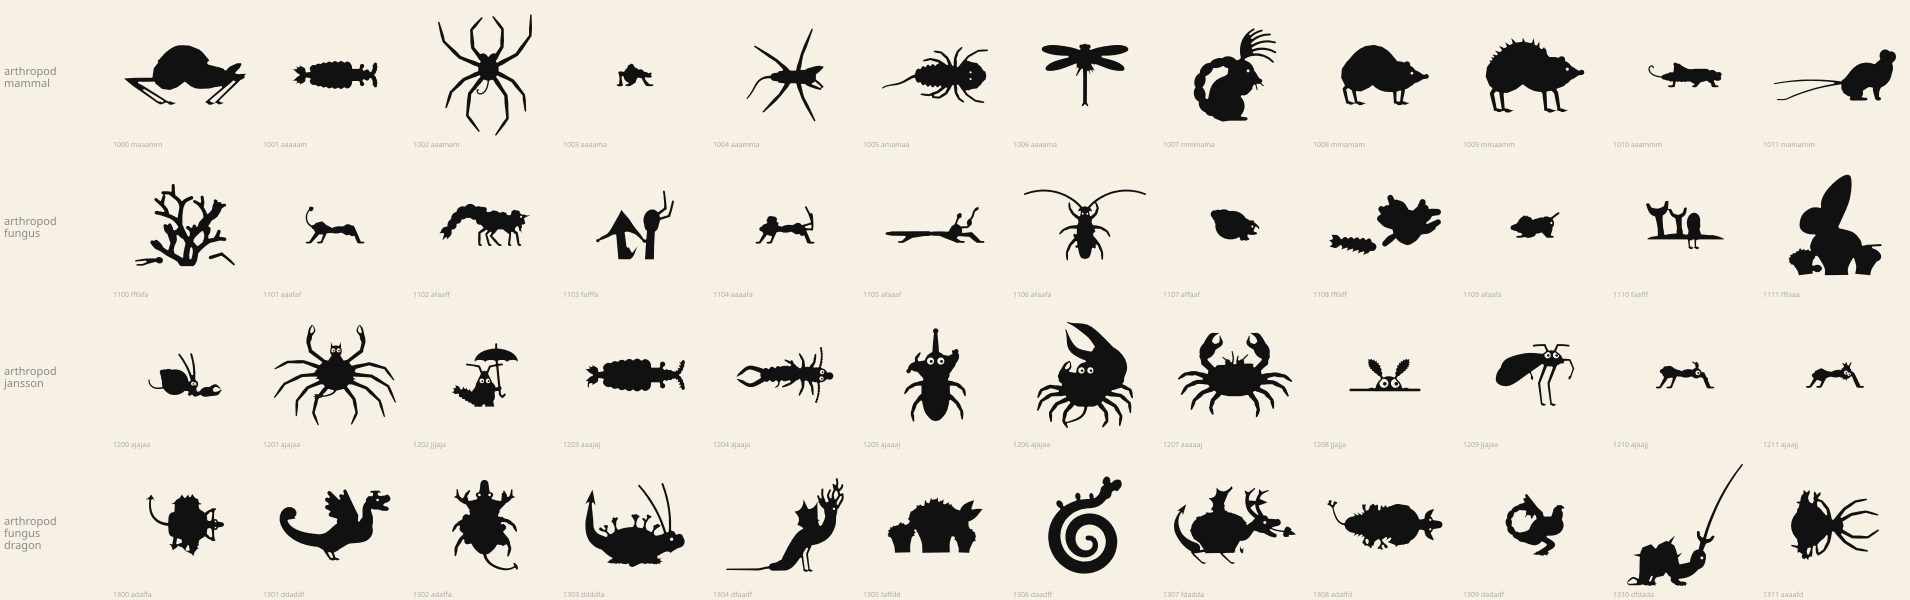
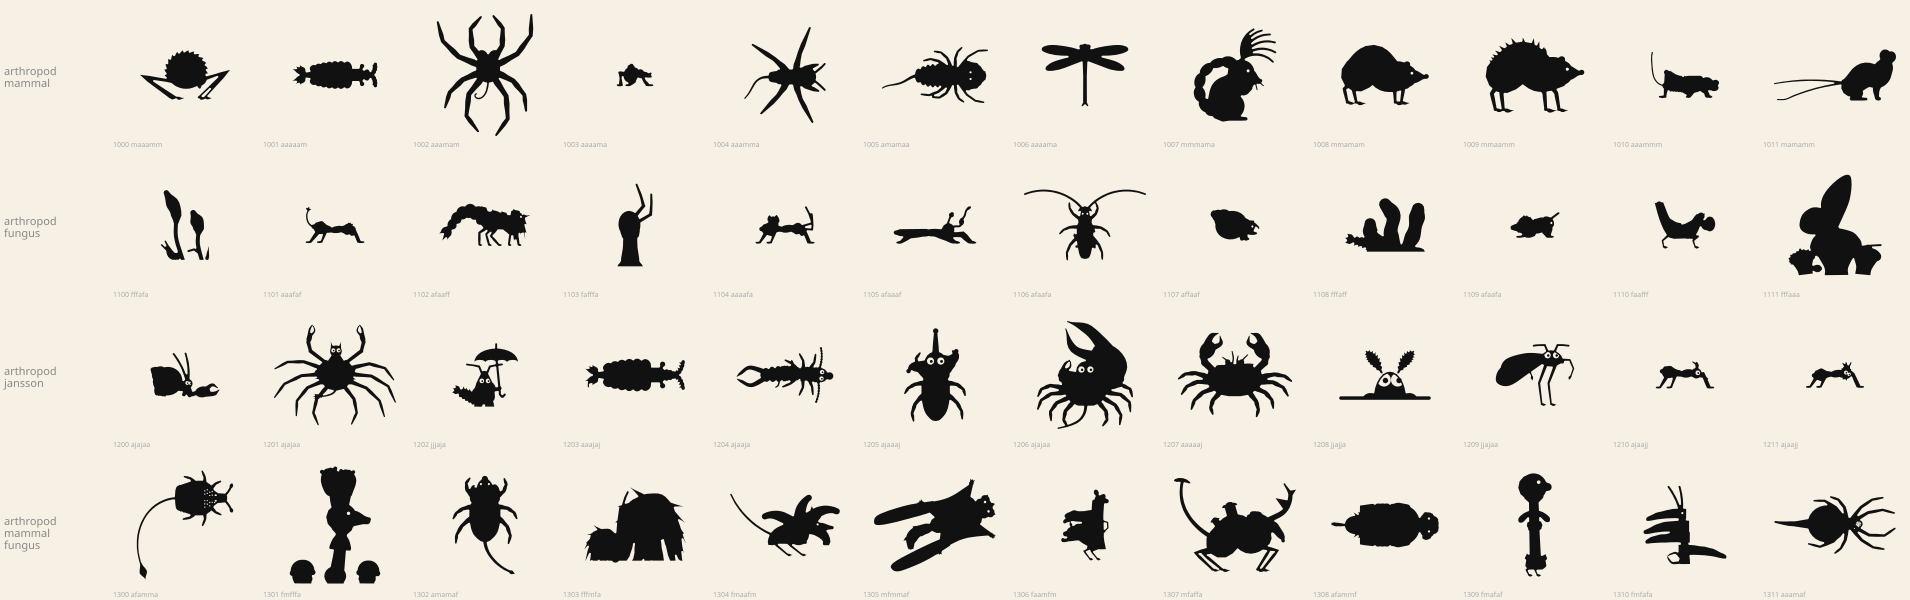
arthropod: M2 fix run 2 - raised-front mantis shrimp with folded claw, crab spider legs read as legs, thicker harvestman/strider/stick/grasshopper

diff --git a/src/gen/tags/arthropod.js b/src/gen/tags/arthropod.js
@@ -611,10 +611,10 @@ FORMS.shrimp = (K, g) => {
   }
   if (g.raptor) { // mantis shrimp: folded smasher / spearer held under the head
     const b = polar(Pc[1], PI / 2, R[1] * 0.4), w = g.raptor;
-    const m1 = polar(b, 1.0, w * 2.2), m2 = polar(m1, -0.55, w * 3.0);
-    bar(k, [b, m1], tap(w * 0.5, w * 0.62)); dot(k, m1, w * 0.6);
-    bar(k, [m1, m2], tap(w * 0.65, w * 0.5));
-    tb(k, [m2, polar(m2, PI - 0.5, w * 1.6), polar(m2, PI - 0.15, w * 2.8)], tap(w * 0.4, 0.3));
+    const m1 = polar(b, 0.2, w * 2.3), m2 = polar(m1, -1.35, w * 1.9);
+    bar(k, [b, m1], tap(w * 0.55, w * 0.7)); dot(k, m1, w * 0.7);
+    bar(k, [m1, m2], tap(w * 0.8, w * 0.6)); dot(k, m2, w * 0.55);
+    tb(k, [m2, polar(m2, 0.5, w * 1.1), polar(m2, 1.2, w * 1.9)], tap(w * 0.45, 0.35));
   }
   // socket strip along the back of the abdomen for wings / spines lent to us
   const bpath = [...Pc.slice(1), ...segs.map(s => T(s.q))].reverse(), brad = t => (t > 0.55 ? rc : rc * 0.8);
@@ -973,9 +973,9 @@ const species = [
     { head: HEAD({ palp: 0.9 }), limbs: LEND(r, { len: r.range(3, 3.8) }) }); } },
   { name: 'jumping spider', w: 2, genes: r => { const L = r.range(11, 13.5); return G({ form: 'spider', rot: r.pick([UP, 0]), ceph: [r.range(7.8, 8.8), r.range(6.8, 7.6)], box: true, abd: [r.range(6.5, 7.5), r.range(5, 5.8)], legA: [0.5, 1.1, 1.85, 2.35], legT: [-0.35, -0.3, 0.35, 0.4], legL: [L * 1.2, L * 0.95, L * 0.85, L * 1.05], legW: 3.6, legWk: [1.35, 1, 1, 1.05], legFr: [0.45, 0.3, 0.25] },
     { head: HEAD({ palp: 1.0, eye: 0.3 }), limbs: LEND(r, { len: 2, w: 0.4 }) }); } },
-  { name: 'crab spider', w: 1.5, genes: r => { const L = r.range(21, 25); return G({ form: 'spider', rot: UP, ceph: [4.6, 5], abd: [r.range(6.5, 7.5), r.range(8, 9.5)], legA: [1.2, 1.5, 2.3, 2.7], legT: [-1.0, -0.9, 0.3, 0.4], legL: [L * 1.1, L, L * 0.38, L * 0.38], legW: 2.6, legWk: [1.25, 1.2, 0.8, 0.8], legFr: [0.4, 0.4, 0.2] },
+  { name: 'crab spider', w: 1.5, genes: r => { const L = r.range(21, 25); return G({ form: 'spider', rot: UP, ceph: [4.6, 5], abd: [r.range(6, 6.8), r.range(7, 8)], legA: [1.0, 1.4, 2.15, 2.6], legT: [-0.15, -0.1, 0.45, 0.55], legL: [L * 0.95, L * 0.9, L * 0.7, L * 0.7], legW: 3.0, legWk: [1.2, 1.15, 0.9, 0.9], legFr: [0.4, 0.4, 0.2] },
     { head: HEAD({ palp: 0.8 }), limbs: LEND(r) }); } },
-  { name: 'harvestman', w: 1.5, genes: r => { const L = r.range(34, 42); return G({ form: 'spider', rot: r.pick([UP, 0]), ceph: [r.range(6.5, 7.5), r.range(5.6, 6.4)], abd: [0, 0], legA: [0.55, 1.15, 1.95, 2.55], legT: [-0.7, -0.6, 0.6, 0.7], legL: [L * 0.85, L * 1.1, L * 0.85, L], legW: 2.5, legFr: [0.36, 0.34, 0.3] },
+  { name: 'harvestman', w: 1.5, genes: r => { const L = r.range(34, 42); return G({ form: 'spider', rot: r.pick([UP, 0]), ceph: [r.range(8, 9), r.range(6.8, 7.6)], abd: [0, 0], legA: [0.55, 1.15, 1.95, 2.55], legT: [-0.7, -0.6, 0.6, 0.7], legL: [L * 0.85, L * 1.1, L * 0.85, L], legW: 3.8, legFr: [0.36, 0.34, 0.3] },
     { head: HEAD({ palp: 0.7 }), limbs: LEND(r, { len: r.range(4, 5), w: 0.2 }) }); } },
   { name: 'tick', w: 1, genes: r => { const ab = r.range(9, 11); return G({ form: 'spider', rot: r.pick([UP, 0]), ceph: [2.6, 2.4], capit: true, abd: [ab * 1.3, ab], legA: [0.85, 1.25, 1.65, 2.05], legT: [-0.5, -0.3, 0.3, 0.5], legL: [13, 12, 12, 13].map(x => x * r.range(0.95, 1.1)), legW: 2.7, legFr: [0.45, 0.3, 0.25] },
     { head: HEAD({ palp: 1.1 }), limbs: LEND(r, { len: 1.6 }) }); } },
@@ -1001,7 +1001,7 @@ const species = [
     { head: HEAD({ len: 0.9, wid: 0.9, splay: 0.55 }), limbs: LEND(r), crown: ANT(r.range(9, 12), r.range(1.2, 1.6), { w: 0.34 }) }); } },
   { name: 'ladybird', w: 2, genes: r => { const We = r.range(10, 11.5); return G({ form: 'beetleTop', rot: r.pick([UP, 0]), E: We * r.range(1.75, 1.95), We, P: 3.4, Wp: We * 0.72, prBase: 1.1, hs: We * 0.36, endW: 0.62, legA: [0.75, 1.65, 2.4], legT: [-0.5, 0.5, 0.5], legL: [7.5, 8, 8], legW: 1.9, legFr: [0.5, 0.5] },
     { head: HEAD({ len: 0.8, wid: 1 }), limbs: LEND(r, { len: 1.5 }), crown: ANT(r.range(1.5, 2), 0.5, { club: true, w: 0.3 }) }); } },
-  { name: 'water strider', w: 1, genes: r => { const We = r.range(3.3, 3.8); return G({ form: 'beetleTop', rot: r.pick([UP, 0]), E: r.range(16, 19), We, P: 5, Wp: We * 1.25, hs: We * 0.95, endW: 0.6, legA: [0.45, 1.3, 2.3], legT: [-0.25, -0.2, 0.2], legL: [10, r.range(28, 34), r.range(24, 28)], legW: 2.4, legFr: [0.4, 0.6] },
+  { name: 'water strider', w: 1, genes: r => { const We = r.range(4.4, 5); return G({ form: 'beetleTop', rot: r.pick([UP, 0]), E: r.range(16, 19), We, P: 5, Wp: We * 1.25, hs: We * 0.95, endW: 0.6, legA: [0.45, 1.3, 2.3], legT: [-0.25, -0.2, 0.2], legL: [10, r.range(28, 34), r.range(24, 28)], legW: 3.6, legFr: [0.4, 0.6] },
     { head: HEAD({ len: 1.1, wid: 0.9, eye: 0.35 }), limbs: LEND(r, { len: 4, w: 0.18 }), crown: ANT(2.2, 0.3) }); } },
   { name: 'giant water bug', w: 1, genes: r => { const We = r.range(9, 10.5); return G({ form: 'beetleTop', rot: r.pick([UP, 0]), E: We * r.range(2.3, 2.6), We, P: 5.5, Wp: We * 0.82, prBase: 1.05, hs: We * 0.42, endW: 0.45, raptor: true, legA: [0.6, 1.8, 2.45], legT: [-0.5, 0.45, 0.4], legL: [16, 12, 14], legW: 2.6, legFr: [0.5, 0.5] },
     { head: HEAD({ len: 0.9, wid: 0.95, eye: 0.42 }), limbs: CLAWED(r, { len: 2 }), tail: TAIL('telson', { len: 1.8, fw: 0.4 }) }); } },
@@ -1017,8 +1017,8 @@ const species = [
     { head: HEAD({ len: 0.8, wid: 1.05, eye: 0.55, eyeX: 0.1 }), limbs: LEND(r, { len: 1.8 }), dorsal: WINGS('fly', r.range(2.6, 3.1), { at: 0.65, inset: 0.3, sweep: r.range(0.85, 1.2) }), crown: ANT(1, 0.3) }) },
   { name: 'shrimp', w: 3, genes: r => { const rc = r.range(4.2, 5); return G({ form: 'shrimp', rc, Lc: rc * r.range(3.2, 3.8), n: 6, sl: rc * r.range(1.1, 1.3), T: r.range(2.0, 2.6), bend: u => [0.02, 0.12, 0.3, 0.32, 0.18, 0.06][Math.round(u * 5)], hump: r.range(0.6, 0.85), hang: 1.3, re: 0.55, plDeep: 1.15, fan: rc * r.range(1.15, 1.4), rost: rc * r.range(1.6, 2.6), rostUp: r.range(0.05, 0.35), teeth: r.int(3, 6), scale: rc * r.range(1.2, 1.6), legH: rc * r.range(1.9, 2.3), legL: rc * r.range(2.9, 3.4), legW: 1.8, tilt: r.range(-0.05, 0.08) },
     { head: HEAD({ stalk: r.range(0.35, 0.55), stalkR: 0.32 }), limbs: LEND(r, { len: 2.4, w: 0.2 }), crown: ANT(r.range(10, 15), r.range(2.4, 2.9), { style: 'sweep', w: 0.2, splaySide: r.range(0.9, 1.25) }) }); } },
-  { name: 'grasshopper', w: 3, genes: r => { const ty = r.range(3.3, 3.9), kat = r.chance(0.3); return G({ form: 'insect', legH: r.range(3, 4.5), tx: r.range(4.6, 5.4), ty, ax: r.range(17, 22), ay: ty * r.range(0.85, 1), aTilt: r.range(-0.12, 0.05), aSegs: 8, aEnd: 0.5, pron: 'saddle', hs: ty * 1.0, hDir: -0.2, face: r.range(0.9, 1.2),
-      legs: [{ x: 0.75, ka: 0.45, f: 4, tx: 1.2, w: 1.7, toe: 1.8 }, { x: 0.05, ka: PI - 0.7, f: 3.5, tx: 0.8, w: 1.7, toe: 1.8 }, { kind: 'jump', x: -0.7, f: r.range(15, 18), fa: r.range(0.55, 0.75), w: r.range(3.2, 3.8), back: 0.05 }] },
+  { name: 'grasshopper', w: 3, genes: r => { const ty = r.range(4.3, 4.9), kat = r.chance(0.3); return G({ form: 'insect', legH: r.range(3, 4.5), tx: r.range(4.6, 5.4), ty, ax: r.range(13, 16), ay: ty * r.range(0.85, 1), aTilt: r.range(-0.12, 0.05), aSegs: 8, aEnd: 0.5, pron: 'saddle', hs: ty * 1.0, hDir: -0.2, face: r.range(0.9, 1.2),
+      legs: [{ x: 0.75, ka: 0.45, f: 4, tx: 1.2, w: 2.4, toe: 1.8 }, { x: 0.05, ka: PI - 0.7, f: 3.5, tx: 0.8, w: 2.4, toe: 1.8 }, { kind: 'jump', x: -0.7, f: r.range(17, 20), fa: r.range(0.55, 0.75), w: r.range(4.6, 5.2), back: 0.05 }] },
     { head: HEAD({ len: 1.25, wid: 0.95, eye: 0.3, eyeX: -0.1, antGap: 0.3, splaySide: 1.0 }), limbs: LEND(r, { len: 2.4 }), dorsal: WINGS('fold', r.range(5.2, 6.4), { at: 0.15, inset: 0.1, lift: r.range(0.04, 0.14) }), crown: ANT(kat ? r.range(9, 13) : r.range(3.2, 4.5), kat ? r.range(1.2, 1.8) : r.range(0.3, 0.8), { w: 0.2 }) }); } },
   { name: 'praying mantis', w: 3, genes: r => { const ty = r.range(2, 2.4); return G({ form: 'insect', legH: r.range(6.5, 8), tx: 4.2, ty, neck: r.range(10, 13), neckA: r.range(0.75, 1.05), ax: r.range(19, 24), ay: ty * r.range(1.3, 1.6), aTilt: r.range(0.05, 0.25), aSegs: 7, aEnd: 0.4, hs: 3.1, hDir: 0.2, face: r.range(0.35, 0.75),
       legs: [{ kind: 'raptor', L: r.range(14, 17), w: 2.4, ca: r.range(0.8, 1.1), fa: r.range(-1.3, -0.8) }, { x: 0.3, ka: r.range(-0.05, 0.25), f: r.range(6, 8), tx: r.range(2, 4), w: 1.3 }, { x: -0.6, ka: PI - r.range(-0.05, 0.25), f: r.range(7, 9), tx: r.range(2, 4), w: 1.3 }] },
@@ -1047,10 +1047,10 @@ const species = [
   { name: 'treehopper', w: 1.5, genes: r => { const ty = r.range(2.8, 3.2), kind = r.pick(['thorn', 'crescent', 'sail', 'globes']); const sh = r.pick(['hump', 'thorn', 'thorn']); return G({ form: 'insect', legH: r.range(2.5, 3.2), tx: 3.6, ty, ax: 7, ay: ty * 0.85, aTilt: 0, aProf: [[0, 2.6], [0.5, 2.6], [1, 1.2]], pron: 'shield', pShape: sh, pH: sh === 'thorn' ? r.range(7, 11) : r.range(3, 5), pX: sh === 'thorn' ? r.range(-0.2, 0.6) : r.range(-0.4, 0.3), hs: 3, hDir: 0.15, face: 0.7,
       legs: [{ x: 0.6, ka: 0.8, f: 3, tx: 1.5, w: 1.5 }, { x: -0.1, ka: PI - 1.0, f: 3, tx: 1.5, w: 1.5 }, { x: -0.7, ka: PI - 0.7, f: 4, tx: 2.5, w: 1.5 }] },
     { head: HEAD({ len: 0.7, wid: 1.0, eye: 0.35, antGap: 0.3, splaySide: 1.6 }), limbs: LEND(r), dorsal: WINGS('fold', r.range(3.2, 3.8), { at: 0.95, inset: 0.6, lift: 0.1 }), crown: ANT(1, 0.2) }); } },
-  { name: 'stick insect', w: 1.5, genes: r => { const L = r.range(26, 32); return G({ form: 'insect', legH: r.range(4, 6), tx: r.range(9, 11), ty: 1.5, ax: L, ay: 1.6, aTilt: r.range(-0.02, 0.08), aProf: [[0, 1.5], [0.85, 1.4], [1, 0.8]], hs: 2.2, hDir: 0, face: 0.15,
-      legs: [{ x: 0.95, ka: r.range(-0.4, -0.1), f: r.range(9, 12), tx: r.range(5, 8), w: 1.15 }, { x: 0, ka: r.range(-0.1, 0.3), f: r.range(8, 10), tx: 4, w: 1.15 }, { x: -0.9, ka: PI - r.range(-0.1, 0.3), f: r.range(9, 11), tx: 5, w: 1.15 }] },
+  { name: 'stick insect', w: 1.5, genes: r => { const L = r.range(19, 23); return G({ form: 'insect', legH: r.range(4, 6), tx: r.range(7, 8.5), ty: 2.6, ax: L, ay: 2.5, aTilt: r.range(-0.02, 0.08), aProf: [[0, 2.4], [0.85, 2.2], [1, 1.3]], hs: 3, hDir: 0, face: 0.15,
+      legs: [{ x: 0.95, ka: r.range(-0.4, -0.1), f: r.range(9, 12), tx: r.range(5, 8), w: 2.3 }, { x: 0, ka: r.range(-0.1, 0.3), f: r.range(8, 10), tx: 4, w: 2.3 }, { x: -0.9, ka: PI - r.range(-0.1, 0.3), f: r.range(9, 11), tx: 5, w: 2.3 }] },
     { head: HEAD({ len: 1.2, wid: 0.8, antGap: 0.4, splaySide: 0.3 }), limbs: LEND(r, { len: 4, w: 0.2 }), crown: ANT(r.range(4, 9), r.range(0.1, 0.4), { w: 0.18 }) }); } },
-  { name: 'mantis shrimp', w: 2, genes: r => { const rc = r.range(5, 5.8); return G({ form: 'shrimp', rc, Lc: rc * r.range(1.7, 2), n: 6, sl: rc * r.range(0.95, 1.1), T: r.range(0.5, 0.9), hump: r.range(0.1, 0.3), eyeStalk: rc * r.range(1.1, 1.5), re: 0.85, a0: 1.0, plDeep: 1.05, segOv: 0.7, fan: rc * r.range(0.95, 1.15), fanSpread: 0.6, fanSpines: true, legH: rc * r.range(0.7, 0.9), legL: rc * 1.9, legW: 1.9, legs: 3, leg0: 0.55, leg1: 0.95, legFw: 0.2, raptor: r.range(3.4, 4), scale: rc * 1.0, tilt: r.range(0, 0.06) },
+  { name: 'mantis shrimp', w: 2, genes: r => { const rc = r.range(5, 5.8); return G({ form: 'shrimp', rc, Lc: rc * r.range(1.7, 2), n: 5, sl: rc * r.range(0.95, 1.1), T: r.range(0.1, 0.35), hump: r.range(0.1, 0.3), eyeStalk: rc * r.range(1.5, 1.9), re: 0.85, a0: 1.0, plDeep: 1.05, segOv: 0.7, fan: rc * r.range(1.5, 1.8), fanSpread: 1.0, fanSpines: true, legH: rc * r.range(0.7, 0.9), legL: rc * 1.9, legW: 1.9, legs: 3, leg0: 0.55, leg1: 0.95, legFw: 0.2, raptor: r.range(4.2, 4.8), scale: rc * 1.0, tilt: r.range(-0.35, -0.25) },
     { head: HEAD({ stalk: r.range(0.9, 1.2), stalkR: 0.48 }), limbs: CLAWED(r, { clawS: 1.1 }), crown: ANT(r.range(3, 4.5), r.range(0.6, 1.2), { w: 0.22, splaySide: 0.5 }), tail: none() }); } },
   { name: 'sandhopper', w: 1.5, genes: r => { const rc = r.range(3.2, 3.8); return G({ form: 'shrimp', rc, Lc: rc * 1.1, n: 10, sl: rc * r.range(0.72, 0.85), T: r.range(2.6, 3.4), hump: r.range(0.35, 0.6), hang: 1.6, re: 0.55, a0: 1.0, plDeep: 1.5, segOv: 0.7, fan: rc * 0.55, fanSpread: 0.7, legH: rc * r.range(1.3, 1.7), legL: rc * 2.6, legW: 1.3, legs: 6, leg0: 0.3, leg1: 1.6, legFw: 0.5, legBk: 0.6, tilt: r.range(-0.1, 0.05) },
     { head: HEAD({ eye: 0.32 }), limbs: LEND(r, { len: 2.2, w: 0.2 }), crown: ANT(r.range(3.5, 5), r.range(0.6, 1.2), { w: 0.22, splaySide: r.range(0.3, 0.7) }) }); } },

diff --git a/docs/tags/arthropod.md b/docs/tags/arthropod.md
@@ -32,6 +32,16 @@ outline are welcome).
 
 ## State
 
+**2026-11-13 M2 fix run 2** (critic `out/tmp/critic2-arthropod.md`, judged at --cell 60): still 64 species.
+- Mantis shrimp: 5 segments, front raised (tilt -0.3), little curl, wide spined tail fan,
+  long eye stalks, raptorial claw redrawn as a folded knob held forward. No longer a tube.
+- Crab spider: front legs held sideways with mild forward curve, rear legs 0.7 L and
+  visible, smaller abdomen; no longer a horned bull head.
+- Thickened for print: harvestman (legW 3.8, bigger body), water strider (legW 3.6, wider
+  body), stick insect (shorter, ty 2.6, legs w 2.3), grasshopper (ty 4.3-4.9, ax 13-16,
+  hind femur w 4.6-5.2). Stick insect is still the slimmest form on the sheet (by nature).
+- Open minor: pill bug ragged, anomalocaris/opabinia small, treehopper star.
+
 **2026-11-13 M2 fix run** (critic list `out/tmp/critic-arthropod.md`): still 64 species.
 - Shrimp: taller legs, stronger hump and curl (hang 1.3) so the arched, tail-curled profile
   survives; no longer a low caterpillar tube. Mantis shrimp: deeper body, shorter, eye stalk
